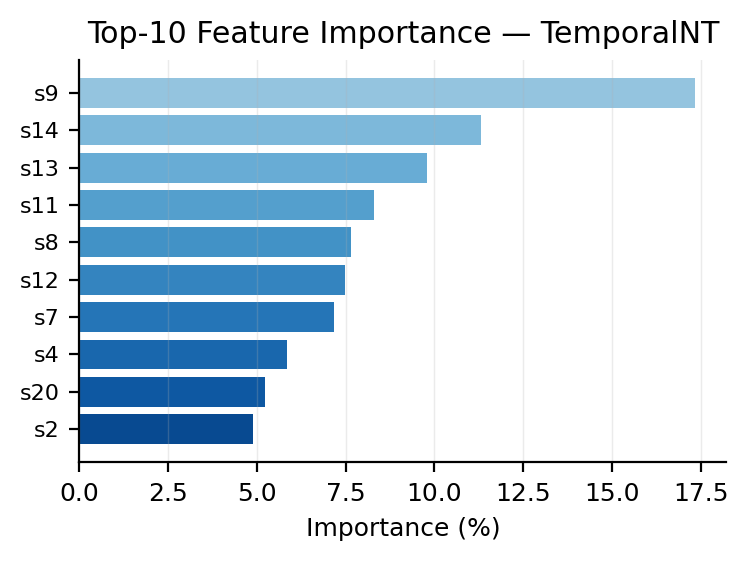
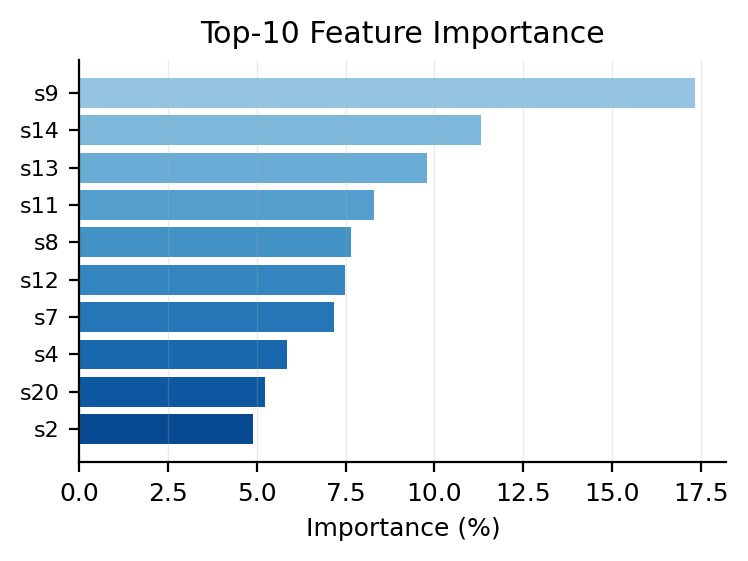
Fix figure titles and placeholder substitution order
- Remove em dashes from all figure titles
- Fix fill_paper_numbers.py: sort keys by length desc to prevent
  short keys matching prefixes of longer keys (e.g. PH_FD001_TNT
  matching inside PH_FD001_TNT_N)
- Regenerate all figures with clean titles

Changed region(s): [[0.123, 0.0303, 0.9532, 0.0909]]

diff --git a/run_full_experiments.py b/run_full_experiments.py
@@ -194,7 +194,7 @@ for n in ['TemporalNT','VanillaNT','LSTM','RF']:
             ls=LS[n], label=LABELS[n], zorder=3 if 'NT' in n else 2)
 ax.set_xlabel('Missing sensor channels (%)')
 ax.set_ylabel('RMSE (cycles)')
-ax.set_title('Missing Sensor Robustness — FD001')
+ax.set_title('Missing Sensor Robustness')
 ax.legend(loc='upper left')
 ax.grid(True, alpha=0.25, linewidth=0.5)
 plt.tight_layout()
@@ -208,7 +208,7 @@ for n in ['TemporalNT','VanillaNT','LSTM','RF']:
             ls=LS[n], label=LABELS[n], zorder=3 if 'NT' in n else 2)
 ax.set_xlabel('Gaussian noise std $\\sigma$')
 ax.set_ylabel('RMSE (cycles)')
-ax.set_title('Noise Robustness — FD001')
+ax.set_title('Noise Robustness')
 ax.legend(loc='upper left')
 ax.grid(True, alpha=0.25, linewidth=0.5)
 plt.tight_layout()
@@ -230,7 +230,7 @@ lim = max(max(bin_stds), max(bin_errs)) * 1.15
 ax.plot([0, lim], [0, lim], 'k--', lw=0.8, alpha=0.5, label='Perfect calibration')
 ax.set_xlabel('Predicted std (cycles)')
 ax.set_ylabel('Mean abs error (cycles)')
-ax.set_title('Uncertainty Calibration — TemporalNT')
+ax.set_title('Uncertainty Calibration')
 ax.legend(fontsize=7)
 ax.grid(True, alpha=0.25, linewidth=0.5)
 plt.tight_layout()
@@ -246,7 +246,7 @@ ax.barh(range(len(top_names)), top_vals[::-1], color=bar_colors[::-1])
 ax.set_yticks(range(len(top_names)))
 ax.set_yticklabels(top_names[::-1], fontsize=8)
 ax.set_xlabel('Importance (%)')
-ax.set_title('Top-10 Feature Importance — TemporalNT')
+ax.set_title('Top-10 Feature Importance')
 ax.grid(True, alpha=0.25, linewidth=0.5, axis='x')
 plt.tight_layout()
 plt.savefig('figures/fig5_feature_importance.png', dpi=200, bbox_inches='tight')

diff --git a/regenerate_figures_color.py b/regenerate_figures_color.py
@@ -63,7 +63,7 @@ for n in ['TemporalNT', 'VanillaNT', 'LSTM', 'RF']:
             ls=LS[n], label=LABELS[n], zorder=3 if 'NT' in n else 2)
 ax.set_xlabel('Missing sensor channels (%)')
 ax.set_ylabel('RMSE (cycles)')
-ax.set_title('Missing Sensor Robustness — FD001')
+ax.set_title('Missing Sensor Robustness')
 ax.legend(loc='upper left')
 ax.grid(True, alpha=0.25, linewidth=0.5)
 plt.tight_layout()
@@ -78,7 +78,7 @@ for n in ['TemporalNT', 'VanillaNT', 'LSTM', 'RF']:
             ls=LS[n], label=LABELS[n], zorder=3 if 'NT' in n else 2)
 ax.set_xlabel('Gaussian noise std $\\sigma$')
 ax.set_ylabel('RMSE (cycles)')
-ax.set_title('Noise Robustness — FD001')
+ax.set_title('Noise Robustness')
 ax.legend(loc='upper left')
 ax.grid(True, alpha=0.25, linewidth=0.5)
 plt.tight_layout()
@@ -113,7 +113,7 @@ try:
     ax.set_yticks(range(len(top_names)))
     ax.set_yticklabels(top_names[::-1], fontsize=8)
     ax.set_xlabel('Importance (%)')
-    ax.set_title('Top-10 Feature Importance — TemporalNT')
+    ax.set_title('Top-10 Feature Importance')
     ax.grid(True, alpha=0.25, linewidth=0.5, axis='x')
     plt.tight_layout()
     plt.savefig('figures/fig5_feature_importance.png', dpi=200, bbox_inches='tight')
@@ -140,7 +140,7 @@ try:
     ax.plot([0, lim], [0, lim], 'k--', lw=0.8, alpha=0.5, label='Perfect calibration')
     ax.set_xlabel('Predicted std (cycles)')
     ax.set_ylabel('Mean abs error (cycles)')
-    ax.set_title('Uncertainty Calibration — TemporalNT')
+    ax.set_title('Uncertainty Calibration')
     ax.legend(fontsize=7)
     ax.grid(True, alpha=0.25, linewidth=0.5)
     plt.tight_layout()

diff --git a/fill_paper_numbers.py b/fill_paper_numbers.py
@@ -83,8 +83,8 @@ paper_path = '/Users/mac/Desktop/turbofan-paper/main.tex'
 with open(paper_path) as f:
     tex = f.read()
 
-for key, val in ph.items():
-    # replace both escaped (\\_) and literal (_) forms
+for key in sorted(ph.keys(), key=len, reverse=True):
+    val = ph[key]
     tex = tex.replace(key.replace('_', '\\_'), val)
     tex = tex.replace(key, val)
 
